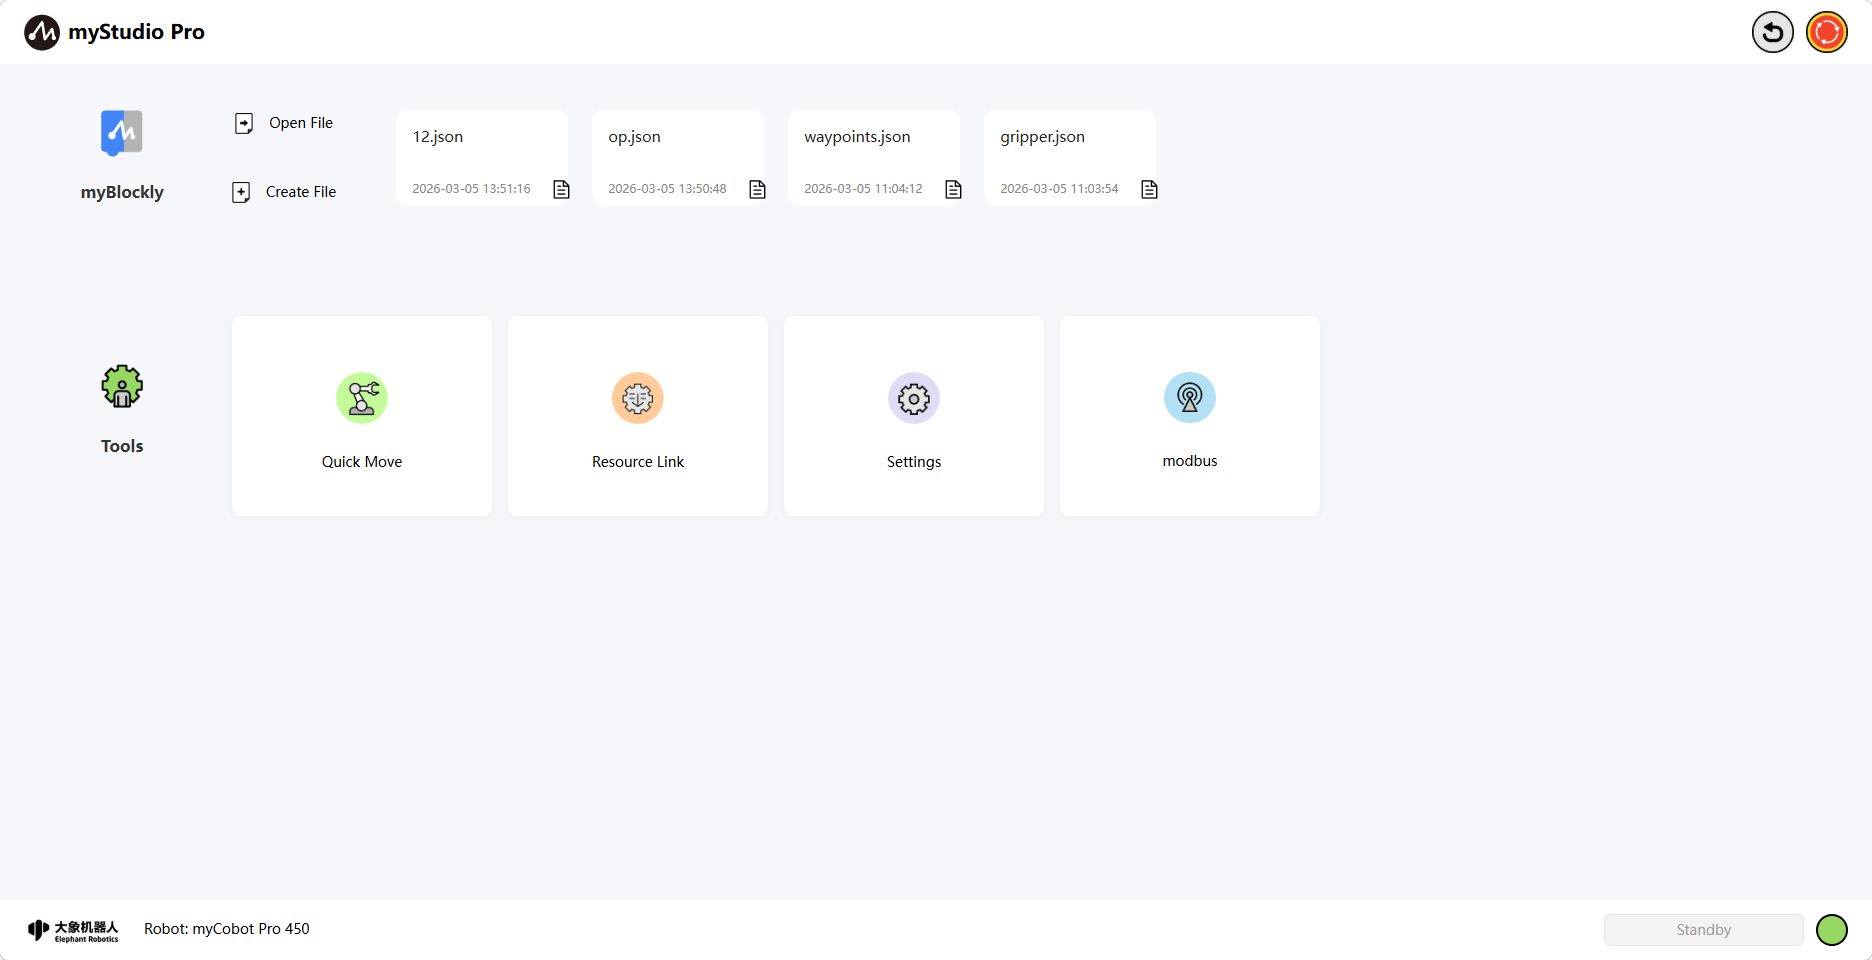
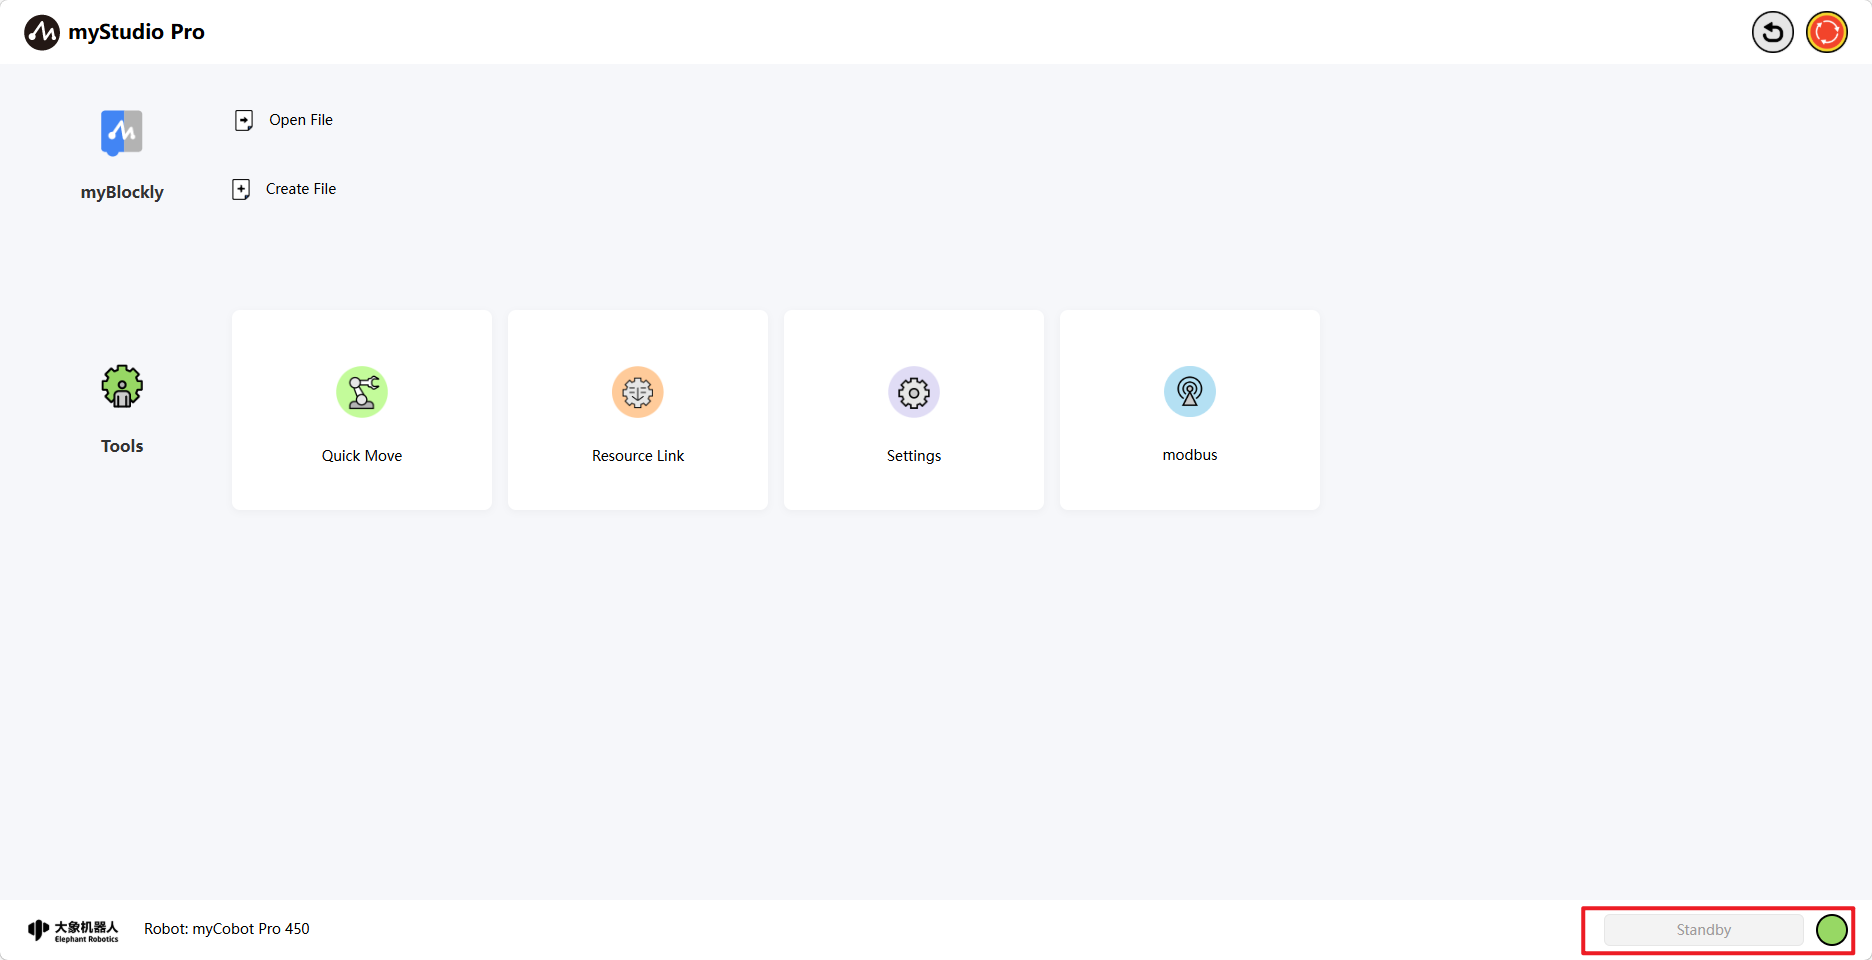
upgrade

diff --git a/myCobot_Pro_450_en/3-FunctionsAndApplications/5-BasicApplication/5.3-myStudioPro/README.md b/myCobot_Pro_450_en/3-FunctionsAndApplications/5-BasicApplication/5.3-myStudioPro/README.md
@@ -177,23 +177,21 @@ For example, capturing a joint 1 over-limit error:
 
 <img width="800" align="center" src="../../../resources/3-FunctionsAndApplications/5.myBlockly/home/error-1.png" alt="blank" />
 
-1. When an abnormality is detected in the robotic arm, a specific warning pop-up window will appear. The pop-up consists of four parts: 
+1、When an abnormality is detected in the robotic arm, a specific warning pop-up window will appear. The pop-up consists of four parts: 
     1. The specific content of the current abnormality error; 
     2. The solution to the current abnormality error. If the current abnormality can be resolved or recovered, it will be displayed; otherwise, no content will be displayed; 
     3. A 'Repair' button for the current abnormality error that can be cleared or recovered. Triggering this button will automatically repair the abnormality; otherwise, no button will be displayed; 
     4. A confirmation button for the current abnormality. If you do not want to handle the error, you can use this button to ignore the current abnormality.
 
-<img width="800" align="center" src="../../../resources/3-FunctionsAndApplications/5.myBlockly/home/error-2.png" alt="blank" /> 2. Repaired anomalies will be displayed in the historical alarm table of the anomaly list, and currently existing anomalies will be displayed in the current alarm table. The anomaly's existence time will be automatically recorded.
+<img width="800" align="center" src="../../../resources/3-FunctionsAndApplications/5.myBlockly/home/error-2.png" alt="blank" /> 
+
+2、Repaired anomalies will be displayed in the historical alarm table of the anomaly list, and currently existing anomalies will be displayed in the current alarm table. The anomaly's existence time will be automatically recorded.
 
 <img width = "800" align = "center" src="../../../resources/3-FunctionsAndApplications/5.myBlockly/home/error-3.png" alt="blank" />
 
-3. If an anomaly is repairable, click the Repair button 
+3、If an anomaly is repairable, click the Repair button (1) to perform the anomaly repair operation. Clicking the Clear Records button (2) will clear the resolved historical alarm records.
 
-    (1) to perform the anomaly repair operation. Clicking the Clear Records button
-
-    (2) will clear the resolved historical alarm records.
-
-    <img width = "800" align = "center" src="../../../resources/3-FunctionsAndApplications/5.myBlockly/home/error-4.png" alt="blank" />
+<img width = "800" align = "center" src="../../../resources/3-FunctionsAndApplications/5.myBlockly/home/error-4.png" alt="blank" />
 
 ## Robot status
 
